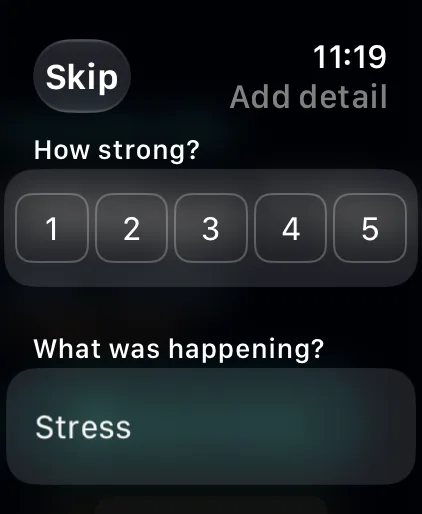
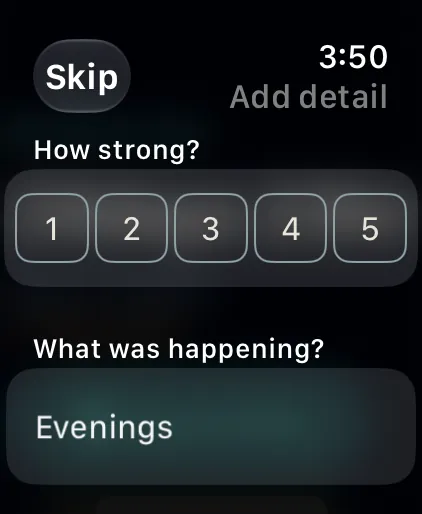
The audit round goes live: 85 fixes, current imagery, coming soon
The August 29 scorecard re-run (twelve fresh-eyes categories, adversarial
verify) and its same-day fix build, plus the two days after. Every claim
brought down to the build's truth; the ethos page gains the why chapter's
61 cited sources; privacy, 404 and the manual carry their full furniture.
Every iPhone shot re-taken from the current build (the hero and log show
the bar histogram, not the retired dial), og.jpg redrawn, webp beside
every jpg, alts rewritten from the pixels. The watch pair re-taken on the
current build after fixing a watchOS 27 bug the capture route found. And
the store badges tell the truth until launch: Coming soon to the App
Store, no dead links anywhere; the footer offers a launch-notice mailto
instead

diff --git a/manual-sos.html b/manual-sos.html
@@ -176,10 +176,13 @@ footer a { color: var(--dim); display: inline-block; padding-block: 0.2rem; }
       <ul>
         <li><a href="#breathe">Breathe</a></li>
         <li><a href="#body-scan">Body scan</a></li>
+        <li><a href="#5-senses">5 senses</a></li>
         <li><a href="#the-games">The games</a></li>
         <li><a href="#the-big-questions">The Big questions</a></li>
         <li><a href="#look">Look</a></li>
+        <li><a href="#study">Study</a></li>
         <li><a href="#the-why">The why</a></li>
+        <li><a href="#what-it-was-doing">What it was doing</a></li>
       </ul>
       </li>
       <li><a href="/manual-rebuild.html">Rebuild</a>
@@ -233,6 +236,12 @@ footer a { color: var(--dim); display: inline-block; padding-block: 0.2rem; }
     <p>This is urge surfing, the technique with the strongest evidence in the toolkit. Turn toward the sensation, name where it lives and what it feels like, and watch it instead of arguing with it. Watched sensations pass faster than fought ones.</p>
     <p>The screen's own line says the whole stance: you're the one watching, it's the one passing. Thirty seconds of honest observation is usually enough to feel the crest.</p>
   </div>
+  <div class="entrycard" id="5-senses">
+    <h2>5 senses</h2>
+    <p class="entrylede">The grounding walk, tapped and never typed. Five things you can see, four you can feel, three you can hear, two you can smell, one you can taste.</p>
+    <p>A standard clinical technique for pulling a spinning mind back into the room. Each sense is a big target you tap down to zero; nothing is typed, because mid-craving hands get big targets only.</p>
+    <p>The closing line says the stance: the room is real, the craving is weather, and it is already passing through. Walk them again starts the count over, and the wave clock keeps running.</p>
+  </div>
   <div class="entrycard" id="the-games">
     <h2>The games</h2>
     <p class="entrylede">Snake and a maze chase, because occupying the mind's visual workshop measurably blunts a craving. Best scores persist, and the wave clock runs through them.</p>
@@ -251,12 +260,23 @@ footer a { color: var(--dim); display: inline-block; padding-block: 0.2rem; }
     <p>The pictures ask you to look rather than argue. The lines observe: the tree is not becoming a tree, the watcher is not the wave, nothing was added to make it whole. They claim nothing a study measured, so they cite nothing.</p>
     <p>Five pictures rotate with your visits, and Another picture steps on. The wave clock keeps running in the corner.</p>
   </div>
+  <div class="entrycard" id="study">
+    <h2>Study</h2>
+    <p class="entrylede">One story of endurance from the tradition you chose: Scripture, Torah, the Qur'an or the Stoics. A short retelling, the passage itself, and a reflection for this minute.</p>
+    <p>The tile names this visit's story, so a tap knows what it is getting. The retelling is in plain words. The passage is quoted word for word from a public-domain translation. The reflection is labelled a reflection, never an authority.</p>
+    <p>Another story steps on. The pack is chosen at setup and in Settings; with the pack off, the tile does not show.</p>
+  </div>
   <div class="entrycard" id="the-why">
     <h2>The why</h2>
     <p class="entrylede">Seven short cards on why humans reach for these substances at all: the wanting machinery, the after-work reach, the cue, the evolutionary story. Every card is cited, and each visit opens on a different one.</p>
     <p>The chapter answers the question every quit eventually asks: why does this pull exist at all? Seven cards cover the honest science. A craving is a learning system working as built, wanting and liking are separate machinery, and relief teaches as hard as pleasure. Cues bind by repetition, and the evolutionary argument is presented as the live debate it is.</p>
     <p>Each card ends on something you can do or watch in the moment. It cites its sources at the foot like every claim in the app. One card per visit, rotating, and the cue card can quote your own log's reading when it has earned one. This is science, so it is never gated behind a faith pack.</p>
     <p>The last card is the app's whole thesis applied to itself: what you understand can't own you. Watching the machinery fire, naming the cue, riding the wave: that is the machinery being retrained.</p>
+  </div>
+  <div class="entrycard" id="what-it-was-doing">
+    <h2>What it was doing</h2>
+    <p class="entrylede">A door below the tools to the honest damage of the substance. Each fact is paired with the way back and with how far your own recovery has come.</p>
+    <p>The page opens on your own number: the share of your tracked recovery already underway. Every fact below it is a population finding with its source, paired with the typical recovery. The page says so: educational, not a diagnosis, not a measurement of your body.</p>
   </div>
   <nav class="pager" aria-label="Between sections">
     <a href="/manual-log.html" rel="prev">&larr; The log and patterns</a>

diff --git a/index.html b/index.html
@@ -613,25 +613,15 @@ footer .row { display: flex; flex-wrap: wrap; gap: var(--s-l) var(--s-xl);
   .statband strong, b, strong, h1, h2, h3 { color: #111111; }
 }
 
-/* Second pass. On a phone a pair no longer stacks two frames: it is a row
-   that swipes, with the second frame peeking, the mobile-native grammar for
-   "there is more". The hero phone takes the same crop on a phone, where it
-   was a full screen of frame. The price cards sit in a row at desktop. */
-@media (max-width: 54rem) {
-  .phones { flex-wrap: nowrap; overflow-x: auto; scroll-snap-type: x mandatory;
-            -webkit-overflow-scrolling: touch; scrollbar-width: none; padding-bottom: 0.25rem; }
-  .phones::-webkit-scrollbar { display: none; }
-  .phones > * { flex: 0 0 min(13.75rem, 78%); scroll-snap-align: start; }
-  .phones > *:nth-child(2) { margin-top: 0; }
-}
+/* Second pass (September 2): a pair on a phone was a row that swipes with the
+   second frame peeking. The fourth pass below overrode every one of its
+   rules, and the dead block was removed October 30 (the September debt). */
 /* Third pass (September 2, Steven: "continue with the other cuts"). The
    price's lower card is two cards side by side, still below the offer (the
    August 3 ruling); on a phone the three tiers are three rows rather than
    three cards, and the settings and compatibility lists run two columns.
    The log's drawn chart, which this pass had seated beside the pair, left
    the page in the fourth pass: the screenshots carry the same bars. */
-@media (min-width: 54rem) {
-}
 @media (max-width: 34rem) {
   .prices:has(.price) { gap: var(--s-s); }
   .price { display: flex; flex-wrap: wrap; align-items: baseline; gap: 0 var(--s-m);
@@ -1145,8 +1135,8 @@ footer .row { display: flex; flex-wrap: wrap; gap: var(--s-l) var(--s-xl);
                  decoding="async"
                  alt="The watch's Add detail sheet, after the press has logged
                       the craving: How strong? over five numbered chips, 1 to 5,
-                      then What was happening? with Stress as the first answer,
-                      and a Skip button at the top."></picture>
+                      then What was happening? with Evenings, this person's own
+                      trigger, as the first row, and a Skip button at the top."></picture>
           </div>
         </div>
       </div>

diff --git a/manual.html b/manual.html
@@ -205,7 +205,7 @@ footer a { color: var(--dim); display: inline-block; padding-block: 0.2rem; }
   <a class="seccard" href="/manual-sos.html">
     <h2>The SOS toolkit</h2>
     <p>A craving crests and breaks in a few minutes. The toolkit exists to get you through exactly those minutes, with a shared five minute wave clock across every tool.</p>
-    <span class="count">6 entries: Breathe, Body scan, The games&hellip;</span>
+    <span class="count">9 entries: Breathe, Body scan, 5 senses&hellip;</span>
   </a>
   <a class="seccard" href="/manual-rebuild.html">
     <h2>Rebuild, moves and badges</h2>
